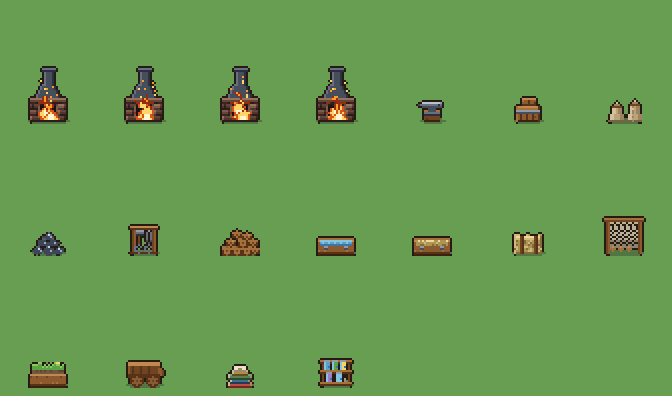
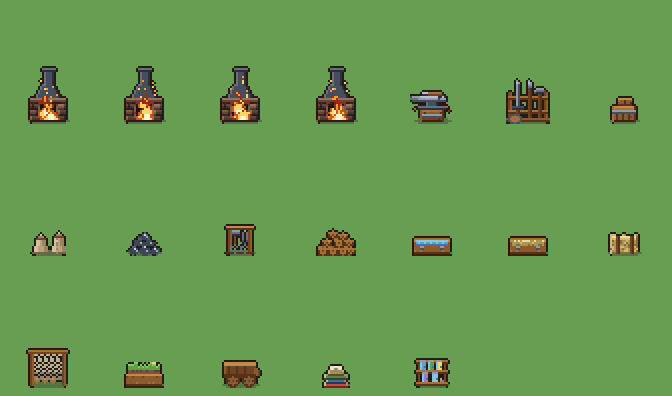
모루를 제대로 그린다 · 무기 거치대를 세운다 · 채워 넣은 것을 덜어낸다
**채워 넣지 않는다.** 앞선 판에서 궤짝과 자루를 아홉 마당에 스물몇 개씩
흩어 놓았다. 그러면 어느 가게에 가도 「짐 쌓아 둔 곳」으로 똑같아진다 —
마당은 그 집이 **무엇을 하는 곳인지**만 말하면 된다. 소품을 이백 개에서
백열한 개로, 마당당 열둘 안쪽으로 줄였다.

모루
  열여섯 도트로 뭉뚱그렸더니 화면에서 검은 덩어리 하나였다. 모루는
  생김새가 곧 이름인 물건이라 그 생김새가 다 보여야 한다 — 왼쪽으로
  뻗은 뿔, 반들반들한 면, 면에 뚫린 네모 구멍과 둥근 구멍, 잘록한 허리,
  퍼진 굽. 스물두 도트로 키우고 면 위에 망치를 얹었다. 그루터기에는
  쇠테를 두르고, 발치에는 튄 쇠비늘 세 점.

무기 거치대
  화로가 「불을 쓴다」면 이쪽은 「칼을 벼른다」다. 나무 시렁에 칼·창·
  도끼 셋을 세우고 발치에 방패 한 짝. 한 자루만 세우면 지팡이 놓인 틀로
  보이고, 다섯을 꽂으면 무엇이 무엇인지 안 갈린다. 끝나는 높이를 셋 다
  달리 둬야 날이 한 덩어리로 뭉치지 않는다.

Claude-Session: https://claude.ai/code/session_0112h9ZFjgKMVtyW7fYhoBYC

diff --git a/game/assets/ref/make_props.js b/game/assets/ref/make_props.js
@@ -264,25 +264,115 @@ function forge(f) {
 // ---- 모루 ----
 //
 // 대장간이라는 말을 한 칸으로 하는 물건. 그루터기에 얹어 놓는다 —
-// 땅바닥에 그냥 두면 쇳덩이 하나가 굴러다니는 것으로 보인다
+// 땅바닥에 그냥 두면 쇳덩이 하나가 굴러다니는 것으로 보인다.
+//
+// **작게 그려서는 모루가 안 된다.** 열여섯 도트짜리로 뭉뚱그렸더니
+// 화면에서 검은 덩어리 하나였다. 모루는 생김새가 곧 이름인 물건이라,
+// 그 생김새를 이루는 다섯 가지가 다 보여야 한다:
+//   뿔      왼쪽으로 뾰족하게 뻗은 것. 이거 하나면 모루로 읽힌다
+//   면      두들기는 윗면. 반들반들해서 제일 밝다
+//   구멍    면에 뚫린 네모 구멍(하디)과 둥근 구멍(프리철)
+//   허리    잘록하게 들어간 몸통. 위아래가 넓고 가운데가 좁다
+//   굽      바닥에 퍼진 발. 그루터기에 얹혀 있다
 function anvil() {
-  const g = new P(16, 15);
-  g.ground(8, 13, 6, 1.8);
-  // 그루터기
-  g.rect(4, 8, 11, 13, W[4]);
-  g.hline(4, 11, 8, W[2]);
-  g.hline(4, 11, 13, W[6]);
-  for (let y = 9; y <= 12; y++) if (h(y, 3, 31) < 0.5) g.px(5 + (y % 3), y, W[5]);
-  // 모루 — 상판 · 잘록한 허리 · 밑굽
-  g.rect(3, 4, 12, 5, IR[2]);
-  g.hline(3, 12, 4, IR[0]);          // 두들기는 면 (반들반들하다)
-  g.hline(3, 12, 6, IR[3]);
-  g.px(2, 5, IR[2]); g.px(1, 5, IR[3]);   // 뿔
-  g.rect(6, 6, 9, 8, IR[3]);
-  g.rect(4, 9, 11, 9, IR[2]);
-  g.hline(4, 11, 10, IR[4]);
-  g.px(12, 4, IR[1]);                // 꽁무니의 각진 구멍 자리
-  g.px(11, 5, IR[4]);
+  const g = new P(22, 19);
+  g.ground(11, 17, 9, 1.8);
+  // ---- 그루터기 ----
+  g.rect(5, 12, 16, 17, W[4]);
+  g.hline(5, 16, 12, W[2]);            // 잘린 윗면 — 위를 보니 밝다
+  g.hline(5, 16, 13, W[3]);
+  g.hline(5, 16, 17, W[6]);            // 밑동
+  for (let y = 13; y <= 16; y++)       // 껍질 결
+    for (let x = 5; x <= 16; x++)
+      if (h(x, y, 121) < 0.24) g.px(x, y, W[5]);
+  hoop(g, 5, 16, 14);                  // 갈라지지 말라고 두른 쇠테
+  g.vline(5, 12, 17, W[3]); g.vline(16, 12, 17, W[5]);
+  // ---- 굽 ----
+  g.rect(4, 10, 17, 11, IR[3]);
+  g.hline(4, 17, 10, IR[2]);
+  g.hline(4, 17, 11, IR[4]);
+  // ---- 허리 (잘록하다) ----
+  g.rect(8, 8, 13, 9, IR[3]);
+  g.vline(8, 8, 9, IR[2]);
+  g.vline(13, 8, 9, IR[4]);
+  // ---- 몸통과 면 ----
+  g.rect(4, 5, 17, 7, IR[2]);
+  g.hline(4, 17, 5, IR[0]);            // 두들기는 면 — 반들반들
+  g.hline(4, 17, 6, IR[1]);
+  g.hline(4, 17, 7, IR[3]);            // 면 밑의 턱
+  g.px(4, 5, IR[1]); g.px(17, 5, IR[1]);
+  // ---- 뿔 — 왼쪽으로 뻗는다 ----
+  g.hline(1, 3, 5, IR[1]);
+  g.hline(0, 3, 6, IR[2]);
+  g.hline(1, 3, 7, IR[3]);
+  g.px(0, 5, IR[3]);
+  // ---- 꽁무니의 구멍 둘 ----
+  g.px(14, 5, IR[4]); g.px(15, 5, IR[4]);      // 하디 (네모)
+  g.px(14, 6, IR[3]);
+  g.px(17, 5, IR[4]);                          // 프리철 (둥근)
+  // ---- 면 위에 얹어 둔 망치 ----
+  g.rect(6, 3, 8, 4, IR[2]);
+  g.hline(6, 8, 3, IR[0]);
+  g.hline(6, 8, 4, IR[4]);
+  g.hline(9, 15, 4, W[4]);                     // 자루
+  g.hline(9, 15, 3, W[2]);
+  g.px(16, 4, W[5]);
+  // ---- 튄 쇠비늘 ----
+  g.px(2, 11, FI[3]); g.px(19, 12, FI[4]); g.px(18, 10, FI[3]);
+  return outline(g);
+}
+
+
+// ---- 무기 거치대 ----
+//
+// 대장간이 **무엇을 만드는 집인지** 말하는 물건. 화로가 「불을 쓴다」면
+// 이쪽은 「칼을 벼른다」다. 벼려 놓은 것을 세워 두는 나무 시렁이다.
+//
+// 셋을 세운다 — 칼 · 창 · 도끼. 한 자루만 세우면 「지팡이 하나 놓인 틀」로
+// 보이고, 다섯을 꽂으면 무엇이 무엇인지 안 갈린다.
+function weaponrack() {
+  const g = new P(22, 24);
+  g.ground(11, 22, 10, 1.8);
+  // 시렁 — 기둥 둘에 가로대 둘. 무기보다 **뒤에** 있으므로 먼저 깐다
+  g.vline(1, 8, 22, W[4]); g.vline(2, 8, 22, W[3]);
+  g.vline(19, 8, 22, W[4]); g.vline(20, 8, 22, W[3]);
+  for (const cy of [10, 17]) {
+    g.hline(1, 20, cy, W[2]);
+    g.hline(1, 20, cy + 1, W[5]);
+  }
+  g.hline(0, 21, 22, W[5]);
+  g.hline(0, 21, 21, W[3]);
+  // 셋을 **떨어뜨려** 세운다. 붙여 놓았더니 칼과 창의 날이 한 덩어리가 돼
+  // 무엇이 무엇인지 안 갈렸다. 끝나는 높이도 다 달리 둔다
+  // ① 칼 — 날은 밝고 등날이 어둡다. 코등이와 손잡이가 있어야 칼이다
+  g.vline(5, 4, 14, IR[1]); g.vline(6, 4, 14, IR[3]);
+  g.px(5, 3, IR[0]); g.px(6, 3, IR[1]); g.px(5, 2, IR[1]);
+  g.hline(3, 8, 15, IR[3]);                    // 코등이
+  g.hline(3, 8, 16, IR[4]);
+  g.vline(5, 17, 19, W[4]); g.vline(6, 17, 19, W[5]);
+  g.hline(4, 7, 20, IR[2]);                    // 손잡이 끝 쇠
+  // ② 창 — 자루가 제일 길고 끝이 좁고 뾰족하다
+  g.vline(11, 7, 20, W[4]); g.vline(12, 7, 20, W[5]);
+  g.px(11, 6, IR[3]); g.px(12, 6, IR[4]);      // 자루에 물린 목
+  g.hline(11, 12, 5, IR[2]);
+  g.hline(11, 12, 4, IR[1]);
+  g.px(11, 3, IR[0]); g.px(12, 3, IR[1]);
+  g.px(11, 2, IR[1]);
+  // ③ 도끼 — 반달 날이 옆으로 벌어진다. 셋 중 제일 낮게 둔다
+  g.vline(16, 9, 20, W[4]); g.vline(17, 9, 20, W[5]);
+  g.rect(15, 6, 18, 8, IR[2]);
+  g.hline(15, 18, 6, IR[1]);
+  g.hline(15, 18, 8, IR[4]);
+  g.px(14, 7, IR[1]); g.px(14, 8, IR[3]);      // 날 끝
+  g.px(19, 7, IR[3]);
+  // 발치에 기대 놓은 방패 한 짝
+  g.disc(4, 21, 3.0, 2.4, W[3]);
+  g.disc(4, 21, 2.0, 1.6, W[2]);
+  g.disc(4, 21, 0.9, 0.8, IR[2]);
+  for (let a = 0; a < 14; a++) {
+    const t = a / 14 * Math.PI * 2;
+    g.px(4 + Math.cos(t) * 3.0, 21 + Math.sin(t) * 2.4, IR[3]);
+  }
   return outline(g);
 }
 
@@ -597,6 +687,7 @@ function toolrack() {
 const OUTS = {};
 for (let f = 0; f < 4; f++) OUTS['deco_forge_' + f] = forge(f).render();
 OUTS['deco_anvil'] = anvil().render();
+OUTS['deco_weaponrack'] = weaponrack().render();
 OUTS['deco_crate'] = crate().render();
 OUTS['deco_sack'] = sack().render();
 OUTS['deco_orepile'] = orepile().render();
